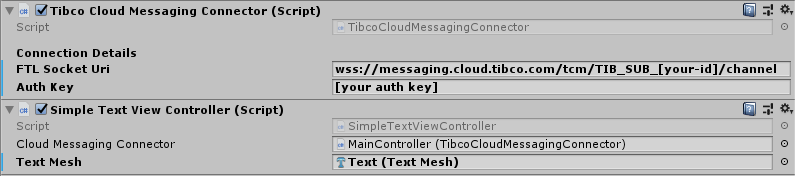
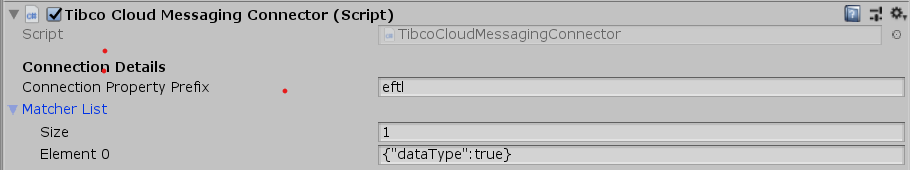
update docs

diff --git a/docs/docs/packages-and-samples/cloud-messaging/index.html b/docs/docs/packages-and-samples/cloud-messaging/index.html
@@ -27,13 +27,13 @@
 <meta property="og:url" content="https://tibcosoftware.github.io/Augmented-Reality/docs/packages-and-samples/cloud-messaging/" />
 <meta property="og:image" content="https://tibcosoftware.github.io/Augmented-Reality/docs/packages-and-samples/cloud-messaging/TCM-AR-Cover.png"/>
 <meta property="article:published_time" content="2020-01-05T00:00:00+00:00" />
-<meta property="article:modified_time" content="2020-04-16T15:30:45+02:00" /><meta property="og:site_name" content="Project ART" />
+<meta property="article:modified_time" content="2020-04-23T23:14:54-07:00" /><meta property="og:site_name" content="Project ART" />
 <meta itemprop="name" content="TIBCO Cloud™ Messaging - Unity3D Package">
 <meta itemprop="description" content="This package allows you to connect a Unity3D Application to [TIBCO Cloud™ Messaging](https://www.tibco.com/products/tibco-cloud-messaging) using the eFTL websocket protocol.
 ">
 <meta itemprop="datePublished" content="2020-01-05T00:00:00&#43;00:00" />
-<meta itemprop="dateModified" content="2020-04-16T15:30:45&#43;02:00" />
-<meta itemprop="wordCount" content="444">
+<meta itemprop="dateModified" content="2020-04-23T23:14:54-07:00" />
+<meta itemprop="wordCount" content="657">
 <meta itemprop="image" content="https://tibcosoftware.github.io/Augmented-Reality/docs/packages-and-samples/cloud-messaging/TCM-AR-Cover.png">
 
 
@@ -327,6 +327,7 @@ if (!doNotTrack) {
       </ul>
     </li>
     <li><a href="#how-it-works">How it works</a></li>
+    <li><a href="#message-publication">Message Publication</a></li>
     <li><a href="#target-devices">Target Devices</a></li>
     <li><a href="#used-versions">Used Versions</a></li>
     <li><a href="#content">Content</a></li>
@@ -375,7 +376,7 @@ if (!doNotTrack) {
 
 
 
-<p class="-text-primary pt-3 h6" >Reading time: 2 minutes and 6 seconds.</p>
+<p class="-text-primary pt-3 h6" >Reading time: 3 minutes and 10 seconds.</p>
 <p>
 <div class="td-content">
 	<h1>TIBCO Cloud™ Messaging - Unity3D Package</h1>
@@ -383,7 +384,8 @@ if (!doNotTrack) {
 	<p>The Implementation is based on standard UnityWebSocket and is working in Unity3D Editor, Android ARCore, and on Microsoft Hololens (UWP).</p>
 <p><img src="TCM-AR.png" alt="alt-text" title="Image">
 <br><sup>TIBCO Cloud Messaging Panel</sup></p>
-<p>Once connected, the application can subscribe and receive real-time messages and update the scene accordingly. The Package contains a simple sample Implementation that demonstrates how to display the received data in a Scene TextMesh.</p>
+<p>Once connected, the application can receive real-time messages and update the scene accordingly. It can also publish data to be consumed by other applications.</p>
+<p>The Package contains a simple sample Implementation that demonstrates how to display the received data in a Scene TextMesh and how to publish messages.</p>
 <h3 id="trial-account">Trial Account</h3>
 <p>register for your own TIBCO Cloud™ Messaging trial account on this <a href="https://account.cloud.tibco.com/signup/tcm">Sign-up Form</a> to get your personal ID and Auth-Key under &lsquo;Authentication Keys&rsquo; Settings Tab, beside the Subscription &lsquo;Status&rsquo;.</p>
 <h3 id="import-into-unity3d">Import into Unity3D</h3>
@@ -394,16 +396,25 @@ if (!doNotTrack) {
 <li>drag'n drop the &lsquo;MainController&rsquo; Prefab into your scene</li>
 <li>drag'n drop the &lsquo;Text&rsquo; Prefab into your scene</li>
 <li>drag'n drop the &lsquo;Text&rsquo; Object from your scene to the &lsquo;MainControler&rsquo;, &lsquo;SimpleTextViewController&rsquo; Component to the &lsquo;Text Mesh&rsquo; Field</li>
-<li>configure your Web Socket URI and Authkey, in the &lsquo;TibcoCloudMessagingConnector&rsquo; Component</li>
+<li>configure your Web Socket URI and Authkey, in a file named &lsquo;TIBCO-credentials.txt&rsquo; placed in <i>TIBCOLabs &gt; Utils &gt; Resources </i> folder.</li>
 </ol>
 <p><b>done!</b> Run Unity &lsquo;Playmode&rsquo;, and test first using cURL or Flogo - like described below.</p>
 <h3 id="use-the-sample-scene">Use the Sample scene</h3>
-<p>In the min. Implementation for Unity, open: <i>TIBCOLabs &gt; CloudMessaging &gt; Sample &gt; CloudMessaging-TestScene</i></p>
+<p>In the Unity project a test scene is available at
+<i>TIBCOLabs &gt; CloudMessaging &gt; Sample &gt; CloudMessaging-TestScene</i></p>
 <p>The ARCore Implementation contains additionally a AR Sample scene: <i>TIBCOLabs &gt; CloudMessaging &gt; CloudMessaging-AR</i></p>
 <p>The Scene contains a MainController Object.
-In the MainController, update the Web Socket URI and Authkey of the TIBCOCloudMessaginConnector with you TIBCO Cloud™ Subscription Details.</p>
-<p><img src="FTLSocketConfig.png" alt="alt-text" title="Image">
+In the MainController, you can update the Connection property prefix (default is &ldquo;eftl&rdquo;).</p>
+<p>You can also modify the matcher list. The sample is subscribing to message containing the field &ldquo;dataType&rdquo;.
+<img src="FTLSocketConfig.png" alt="alt-text" title="Image">
 <br><sup>TIBCO Cloud Messaging FTL Configuration</sup></p>
+<p>The credentials, ie  Web Socket URI and Authkey must be declared in a file named &ldquo;TIBCO-credentials.txt&rdquo; and place in a Resources folder. You can use</p>
+<p><i>TIBCOLabs &gt; Utils &gt; Resources</i></p>
+<p>The folder contains a sample for you to copy.</p>
+<p>If you manage you credential file in git, it is a good practice to ignore TIBCO-credentials.txt so no credentials get checked-in with your source code.</p>
+<p><img src="TIBCOCredentialsFile.png" alt="alt-text" title="Image">
+<br><sup>Credential file</sup></p>
+<p>The file must contain [prefix].socketurl and [prefix].authkey with the values from your TIBCO Cloud™ Subscription Details. [prefix] being defined in the connection configuration panel.</p>
 <h2 id="sending-messages">sending Messages</h2>
 <p>The sample is expecting this type of message:</p>
 <div class="highlight"><pre style="background-color:#f8f8f8;-moz-tab-size:4;-o-tab-size:4;tab-size:4"><code class="language-json" data-lang="json"><span style="color:#000;font-weight:bold">{</span><span style="color:#204a87;font-weight:bold">&#34;dataType&#34;</span><span style="color:#000;font-weight:bold">:</span><span style="color:#4e9a06">&#34;Power&#34;</span><span style="color:#000;font-weight:bold">,</span><span style="color:#204a87;font-weight:bold">&#34;data&#34;</span><span style="color:#000;font-weight:bold">:</span><span style="color:#4e9a06">&#34;130&#34;</span><span style="color:#000;font-weight:bold">}</span>
@@ -416,9 +427,6 @@ In the MainController, update the Web Socket URI and Authkey of the TIBCOCloudMe
 <p>Here a sample using TIBCO Cloud™ Integration Flogo</p>
 <p><img src="FlogoTCMSender.png" alt="alt-text" title="Image">
 <br><sup>TIBCO Cloud Integration Configuration</sup></p>
-<blockquote>
-<p>the current Implementation subscribes to all instance messaging destinations.</p>
-</blockquote>
 <h2 id="how-it-works">How it works</h2>
 <ol>
 <li>The MainController GameObject contains the TIBCO Cloud™ Messaging Connector and SimpleTextViewController</li>
@@ -428,6 +436,15 @@ In the MainController, update the Web Socket URI and Authkey of the TIBCOCloudMe
 <blockquote>
 <p>the ARCore Sample Project uses &lsquo;TextMeshPro&rsquo; an a pre-defined Panel Object, instead of just &lsquo;TextMesh&rsquo;.</p>
 </blockquote>
+<h2 id="message-publication">Message Publication</h2>
+<p>The sample is also publishing messages on the TIBCO Cloud™ Messaging channel. Those message have a field &ldquo;demo_tcm&rdquo; and can be viewed in the TIBCO Cloud™ Messaging demo.</p>
+<p>To see the message published by the app, simply use TIBCO Cloud™ Messaging Demo app :
+From you TIBCO Cloud™ Messaging console, open the help panel and select &ldquo;Run the demo&rdquo;
+<img src="TCM-RunDemo.png" alt="alt-text" title="Image">
+<br><sup>Accessing TIBCO Cloud Messaging Demo app </sup></p>
+<p>You will access the Demo app. Messages published by our sample application will appear in the Subscriber panel of this demo app.</p>
+<p><img src="TCM-RunDemo-Panel.png" alt="alt-text" title="Image">
+<br><sup>TIBCO Cloud Messaging Demo app panels </sup></p>
 <h2 id="target-devices">Target Devices</h2>
 <p>Tested with Microsoft Hololens, Android Smartphones, inside Unity Editor on Windows 10.</p>
 <h2 id="used-versions">Used Versions</h2>
@@ -507,7 +524,7 @@ min. Implementation, as Unity Project <a href="https://github.com/TIBCOSoftware/
 		<br />
 	
 	
-	<div class="text-muted mt-5 pt-3 border-top">Last modified April 16, 2020: <a  href="https://github.com/TIBCOSoftware/Augmented-Reality//commit/37024a51266a7089b8a04aad9db1e8e3cb9e3b2e">restructure (37024a5)</a>
+	<div class="text-muted mt-5 pt-3 border-top">Last modified April 23, 2020: <a  href="https://github.com/TIBCOSoftware/Augmented-Reality//commit/97f4a0087df28bc6a9ced58a5cc254bf2e0b120e">update Messaging doc with credential file and publish capability (97f4a00)</a>
 </div>
 </div>
 
